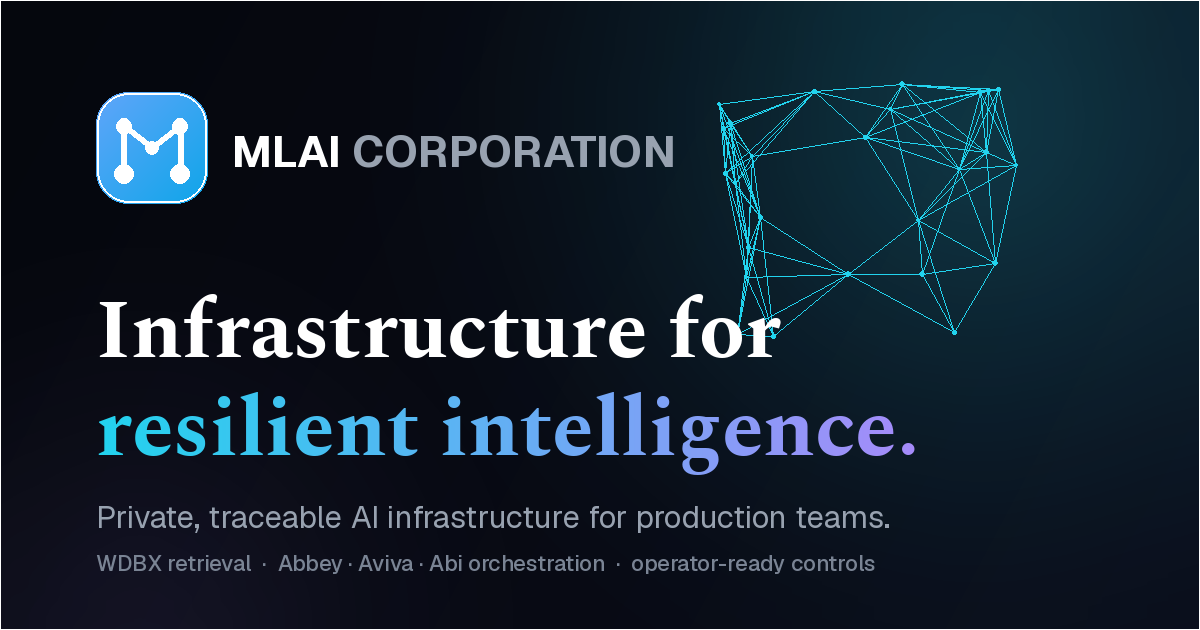
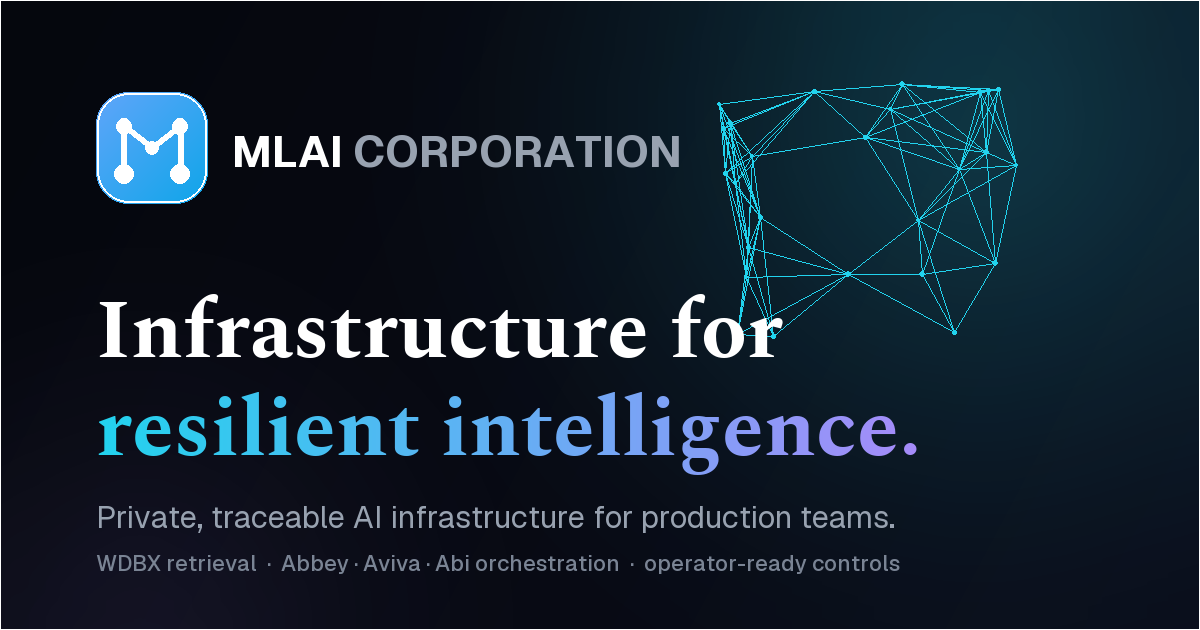
fix(claims): align WDBX copy with substrate
Published design and film surfaces mixed real HNSW and MVCC capabilities with stale parameter defaults, an unsupported sharding topology, and an install contract that does not exist. The sibling Rust substrate is the architectural authority; frozen Zig-era mirrors cannot establish current behavior.\n\nPin the corrected claims so the same attractive but unsupported copy cannot drift back in, and realign the canonical social-card SVG with the generated Lab-brand rasters.\n\nVerification before commit: focused claims and landing-page suites passed 15/15. The full local gate was then blocked by strict-null errors in concurrent, unstaged audit-store and consent work outside this commit.

diff --git a/src/design/docs/DocsContent.tsx b/src/design/docs/DocsContent.tsx
@@ -252,7 +252,7 @@ export const PAGES: Record<string, DocPage> = {
     title: "Quickstart",
     toc: [
       ["install", "Install"],
-      ["first-index", "Your first index"],
+      ["first-index", "Verify the index"],
       ["next", "Next steps"],
     ],
     body: () => (
@@ -266,20 +266,23 @@ export const PAGES: Record<string, DocPage> = {
           Telemetry is off until you enable it in Settings. Every memory write is SHA-256-chained and verified
           on read.
         </Callout>
-        <H2 id="install">Install</H2>
-        <P>WDBX ships as a single static binary (written in Zig). Pull it and verify the checksum:</P>
-        <CodeBlock
-          label="shell"
-          code={`curl -fsSL https://get.mlai.dev/wdbx | sh\nwdbx verify --self        # checks the signed release\nwdbx version              # → wdbx 2.4.0 · zig 0.13`}
-        />
-        <H2 id="first-index">Your first index</H2>
+        <H2 id="install">Build from source</H2>
         <P>
-          Create an HNSW index, upsert a few vectors, then query for nearest neighbors. The history is chained
-          automatically.
+          WDBX is a Rust workspace consumed by ABI and Abbey through sibling path dependencies. Clone the
+          public source and run its declared verification gate:
         </P>
         <CodeBlock
-          label="python"
-          code={`from wdbx import Client\n\ndb = Client(local=True)              # on-device\nidx = db.create_index("docs", dim=768, metric="cosine")\n\nidx.upsert([(id, vector, meta) for ...])\nhits = idx.query(q, k=10, ef=200)    # HNSW search\n\nassert db.verify_chain()             # SHA-256 integrity`}
+          label="shell"
+          code={`git clone https://github.com/donaldfilimon/wdbx.git\ncd wdbx\ncargo test --workspace`}
+        />
+        <H2 id="first-index">Verify the index</H2>
+        <P>
+          The real-store integration test rebuilds a layered HNSW graph from stored vectors, validates the
+          graph, and compares approximate search with the exact index.
+        </P>
+        <CodeBlock
+          label="shell"
+          code={`cargo test -p abi-wdbx --lib hnsw\ncargo test -p abi-wdbx --test real_store`}
         />
         <H2 id="next">Next steps</H2>
         <P>
@@ -300,16 +303,16 @@ export const PAGES: Record<string, DocPage> = {
     body: () => (
       <>
         <P>
-          WDBX is a purpose-built vector-database runtime — HNSW search, sharded storage, SHA-256-chained
-          history and lock-free MVCC concurrency. Memory you can verify.
+          WDBX is a purpose-built vector-database runtime — HNSW search, durable WAL-backed storage,
+          SHA-256-chained history and lock-free MVCC concurrency. Memory you can verify.
         </P>
         <H2 id="model">Storage model</H2>
         <P>
-          Vectors are sharded across nodes; each shard owns an HNSW graph plus a write-ahead log. Reads are
-          served from the graph; writes append to the log and link to the previous block.
+          Each store rebuilds its HNSW graph from a durable snapshot and records writes through a CRC-framed
+          write-ahead log. Cluster support provides replication and read repair; it is not production sharding.
         </P>
-        <Callout kind="info" title="Sharding">
-          Don't shard below ~10M vectors — coordination overhead outweighs parallelism. Re-evaluate at 50M.
+        <Callout kind="info" title="Replication">
+          Replication and read repair are substrate capabilities, not a claim of a hosted multi-node service.
         </Callout>
         <H2 id="integrity">Verifiable memory</H2>
         <P>
@@ -318,7 +321,7 @@ export const PAGES: Record<string, DocPage> = {
         </P>
         <CodeBlock
           label="shell"
-          code={`wdbx chain verify --index docs\n# 142,887 blocks · 0 mismatches · ok`}
+          code={`cargo test -p abi-wdbx --lib hash\ncargo test -p abi-wdbx --lib durable`}
         />
         <H2 id="concurrency">Concurrency</H2>
         <P>
@@ -346,7 +349,7 @@ export const PAGES: Record<string, DocPage> = {
         <ParamTable
           rows={[
             ["M", "16", "Edges per node. Higher = better recall, more memory."],
-            ["ef_construction", "200", "Candidate list size at build time. Higher = better graph, slower build."],
+            ["ef_construction", "40", "Candidate list size at build time. Higher = better graph, slower build."],
             ["metric", "cosine", "cosine for text embeddings; L2 for clustering."],
           ]}
         />
@@ -354,12 +357,12 @@ export const PAGES: Record<string, DocPage> = {
         <ParamTable
           rows={[
             ["k", "10", "Number of neighbors to return."],
-            ["ef", "200", "Search breadth. Higher = better recall, higher latency."],
+            ["ef", "32", "Search breadth. Higher = better recall, higher latency."],
           ]}
         />
         <H2 id="guidance">Guidance</H2>
         <Callout kind="warn" title="Aviva says">
-          Use HNSW. M=16, ef=200. Cosine for text, L2 for clustering. Done.
+          Use HNSW. M=16, ef=32. Cosine for text, L2 for clustering. Done.
         </Callout>
         <P>
           Numbers above are defaults, not benchmarks. Publish measured latency/recall only against a
@@ -394,7 +397,7 @@ export const PAGES: Record<string, DocPage> = {
         </Callout>
         <H2 id="aviva">Aviva · Unfiltered Expert</H2>
         <Callout kind="warn" title="Violet · vision">
-          Direct, dense, zero hedging. "Use HNSW. M=16, ef=200. Cosine for text, L2 for clustering. Done."
+          Direct, dense, zero hedging. "Use HNSW. M=16, ef=32. Cosine for text, L2 for clustering. Done."
         </Callout>
       </>
     ),

diff --git a/src/__tests__/claims.test.ts b/src/__tests__/claims.test.ts
@@ -1,0 +1,48 @@
+import { readFileSync } from "node:fs";
+import { resolve } from "node:path";
+import { describe, expect, it } from "vitest";
+
+const SOURCE_FILES = [
+  "src/design/docs/DocsContent.tsx",
+  "src/design/brand/BrandBoard.tsx",
+  "src/design/marketing/Personas.tsx",
+  "src/design/console/Chat.tsx",
+  "src/film/scenes/math.tsx",
+] as const;
+
+const sources = SOURCE_FILES.map((path) => ({
+  path,
+  text: readFileSync(resolve(__dirname, "../..", path), "utf8"),
+}));
+
+describe("public WDBX architecture claims", () => {
+  it("does not restore the stale HNSW 200 defaults", () => {
+    for (const source of sources) {
+      expect(source.text, source.path).not.toMatch(/ef(?:_construction)?\s*[=:]\s*["']?200\b/i);
+    }
+  });
+
+  it("does not advertise an install endpoint or release that does not exist", () => {
+    const docs = sources.find(({ path }) => path.endsWith("DocsContent.tsx"))?.text ?? "";
+    expect(docs).not.toContain("get.mlai.dev/wdbx");
+    expect(docs).not.toContain("wdbx 2.4.0");
+    expect(docs).not.toContain("zig 0.13");
+    expect(docs).not.toContain("from wdbx import Client");
+    expect(docs).not.toContain("wdbx chain verify");
+  });
+
+  it("does not present cluster replication as distributed sharding", () => {
+    const renderedClaims = sources.map(({ text }) => text).join("\n");
+    expect(renderedClaims).not.toMatch(/vectors are sharded across nodes/i);
+    expect(renderedClaims).not.toMatch(/sharded storage/i);
+    expect(renderedClaims).not.toMatch(/don't shard below/i);
+    expect(renderedClaims).not.toMatch(/fusing sharding/i);
+  });
+
+  it("documents the substrate defaults that the Rust source currently defines", () => {
+    const docs = sources.find(({ path }) => path.endsWith("DocsContent.tsx"))?.text ?? "";
+    expect(docs).toContain('["M", "16"');
+    expect(docs).toContain('["ef_construction", "40"');
+    expect(docs).toContain('["ef", "32"');
+  });
+});

diff --git a/src/film/scenes/math.tsx b/src/film/scenes/math.tsx
@@ -237,7 +237,7 @@ export const MATH: MathDef[] = [
     eqs: [{ tex: <span>cos θ = (<Tok c={AVC}>a</Tok>·<Tok c={AV}>b</Tok>) / (‖<Tok c={AVC}>a</Tok>‖ ‖<Tok c={AV}>b</Tok>‖)</span>, note: "Relevance is the angle between two embeddings." }],
     bullets: ["Vectors normalized to unit length", "Dot product over 768+ dimensions", "Zig @Vector SIMD — many lanes per cycle"] },
   { idx: "M2", label: "Index", badge: "partial", title: "HNSW search", motif: "graph",
-    eqs: [{ tex: <span>search ≈ O(<Tok c={AVC}>log N</Tok>) &nbsp; · &nbsp; M=16, ef=200</span>, note: "A hierarchical navigable small-world graph." }],
+    eqs: [{ tex: <span>search ≈ O(<Tok c={AVC}>log N</Tok>) &nbsp; · &nbsp; M=16, ef=32</span>, note: "A hierarchical navigable small-world graph." }],
     bullets: ["Coarse top layers, dense bottom layer", "Greedy descent toward the query", "Results returned in non-increasing score"] },
   { idx: "M3", label: "Hybrid rank", badge: "partial", title: "Beyond similarity", motif: "curve",
     eqs: [{ tex: <span>score = <Tok c={AVC}>sem</Tok> × <Tok c="#60a5fa">temp</Tok> × <Tok c={C.green}>causal</Tok> × <Tok c={AV}>persona</Tok></span> },

diff --git a/src/design/brand/BrandBoard.tsx b/src/design/brand/BrandBoard.tsx
@@ -350,7 +350,7 @@ const VOICE: readonly VoiceItem[] = [
     role: "Unfiltered Expert",
     c: "violet",
     desc: "Direct, concise, zero hedging or preamble. Optimized for technical density and speed.",
-    sample: "“Use HNSW. M=16, ef=200. Cosine for text, L2 for clustering. Done.”",
+    sample: "“Use HNSW. M=16, ef=32. Cosine for text, L2 for clustering. Done.”",
   },
   {
     icon: IFlow,
@@ -412,7 +412,7 @@ const TYPE: readonly TypeSpec[] = [
     spec: "System sans · 15–16px · slate-300",
     el: (
       <span className="text-base text-slate-300" style={{ fontFamily: "system-ui" }}>
-        A purpose-built substrate fusing sharding, integrity, and concurrency.
+        A purpose-built substrate fusing durable retrieval, integrity, and concurrency.
       </span>
     ),
   },

diff --git a/src/design/console/Chat.tsx b/src/design/console/Chat.tsx
@@ -34,8 +34,8 @@ const REPLIES: Record<PersonaName, string[]> = {
     "Here's the gentle version, then the precise one — tell me where to stop.",
   ],
   Aviva: [
-    "Use HNSW. M=16, ef=200. Cosine for text, L2 for clustering. Done.",
-    "Don't shard below 10M vectors — overhead outweighs parallelism. Re-evaluate at 50M.",
+    "Use HNSW. M=16, ef=32. Cosine for text, L2 for clustering. Done.",
+    "Replicate for resilience when the topology requires it. Don't market replication as distributed sharding.",
     "Chain the writes with SHA-256, verify on read, reject on mismatch. No exceptions.",
   ],
 };

diff --git a/src/design/marketing/Personas.tsx b/src/design/marketing/Personas.tsx
@@ -34,7 +34,7 @@ const MINDS: readonly Mind[] = [
     Icon: IZap,
     line: "research · vision",
     traits: ["Direct", "Maximum density", "Zero hedging"],
-    quote: "Use HNSW. M=16, ef=200. Cosine for text, L2 for clustering. Done.",
+    quote: "Use HNSW. M=16, ef=32. Cosine for text, L2 for clustering. Done.",
   },
   {
     key: "Abi",

diff --git a/CLAUDE.md b/CLAUDE.md
@@ -71,8 +71,8 @@ Site copy is a single source of truth at [src/data/index.ts](src/data/index.ts),
 - **The detail pages share one shell.** [BlogPost.tsx](src/views/BlogPost.tsx) (`/blog/:slug`), [ResearchPaper.tsx](src/views/ResearchPaper.tsx) (`/research/:slug`), and the founder profile all render through [src/components/article.tsx](src/components/article.tsx): `ArticleLayout` (full reading shell), `ArticleSections` (the heading/paragraph/list/math body renderer), and `ArticleNotFound` (in-page 404). Tag→class colors live in [src/lib/tag-colors.ts](src/lib/tag-colors.ts) rather than inline — though its only consumer now is `ResearchPaper.tsx`: `Research.tsx`/`Blog.tsx` moved to `site/PublicationIndex` (uniform chip styling, no per-tag map) and `BlogPost.tsx` renders one fixed `text-cyan-400`. The no-inline-map invariant holds; the file's reach is narrower than the name suggests.
 - **Per-route SEO is data-derived.** [src/lib/route-meta.ts](src/lib/route-meta.ts) maps static paths to `<title>`/description and derives metadata for `/blog/:slug`, `/research/:slug`, `/team/:slug`, and `/products/:slug` from the matching `content` entry. Unknown paths and invalid slugs resolve to a `noindex` 404 meta (not the default org meta). New indexable routes need an entry here.
 - **Content claims are constrained.** (Sourcing note, 2026-08-09: this rule has long been cited to the sibling `abi` repo's `docs/contracts/external-claims-audit.md` — **that file does not exist in `abi` @ `ac69027`**. The rule stands on its own and is restated in full here and in `docs/master-reference.md`; treat *this* file as the authority and don't go hunting for that contract.) External collateral (this site included) must NOT cite specific QPS/latency/accuracy/energy/model-benchmark numbers, distributed sharding, AES/RBAC, regulatory certifications, or non-existent stacks unless a repo artifact proves them. Frame metrics as **targets/goals** (as `src/data/categories/stats.ts` already does) and ground new copy in verifiable architecture (the real `abi` CLI, MCP tools, WDBX stores, Abbey/Aviva/Abi persona routing).
-- **[docs/master-reference.md](docs/master-reference.md) is the reconciled cross-project fact sheet** (company, three products, persona system) and carries the provenance discipline the claims rule depends on: every metric is tagged **● measured** (reproduced on MLAI hardware) / **○ target** (an engineering goal) / **◆ reported** (cited or internal-eval), and the three are **never conflated**. It also pins the standing Apple rule — only "Built on Apple's public frameworks (Metal, Accelerate, Core ML)" framing; no partnership, endorsement, or employer claim. Carry those tags forward when moving a figure from that doc into site copy. **But master-reference is not uniformly trustworthy: its tagged *tables* are, and its untagged prose *bullets* are not.** The §4 "Core features" list is working notes — it asserts HNSW with `M=16, efConstruction=200`, "95% recall @ 8.2 ms" (which **contradicts the tagged table directly above it**: Recall@10 98.2% ● measured, p50 2.3 ms ● measured), and "AES-256 + RBAC" (forbidden outright). **But do NOT conclude from the mirrored docs that a claim is fabricated — that inference was made once and it was wrong.** The nine docs in [public/docs/wdbx/](public/docs/wdbx/) never mention HNSW or any index structure, and on 2026-08-24 that silence was read as proof the HNSW claims were invented. Checking the actual substrate refuted it: `~/dev/active/wdbx/crates/abi-wdbx/src/hnsw.rs` is a real layered HNSW graph (`HnswIndex::search`, `validate_graph`, tests that rebuild real vectors), `mvcc.rs` is real, and the lock-free v2 writer path is real. **The mirrored docs are stale Zig-era artifacts, not a current architecture register** — their silence is absence of documentation, not absence of the feature. So the precedence rule is narrower than it used to read here: **a tagged row outranks an untagged bullet always, and for anything architectural the SIBLING RUST REPO outranks both.** Verify against `~/dev/active/wdbx/crates/` before deleting an architectural claim as unfounded.
-  - What the substrate actually contradicts, measured 2026-08-24: the site publishes `ef_construction = 200` and `ef = 200`, but `hnsw.rs:15,17` define `EF_CONSTRUCTION = 40` and `EF_SEARCH = 32` (`M = 16` at `:13` IS correct). And `cluster_rpc.rs:5` states in its own words "This is not TLS, production multi-host Raft, or **sharding**" — so any "vectors are sharded across nodes" copy is contradicted by the source it describes, which is why distributed sharding stays on the forbidden list.
+- **[docs/master-reference.md](docs/master-reference.md) is the reconciled cross-project fact sheet** (company, three products, persona system) and carries the provenance discipline the claims rule depends on: every metric is tagged **● measured** (reproduced on MLAI hardware) / **○ target** (an engineering goal) / **◆ reported** (cited or internal-eval), and the three are **never conflated**. It also pins the standing Apple rule — only "Built on Apple's public frameworks (Metal, Accelerate, Core ML)" framing; no partnership, endorsement, or employer claim. Carry those tags forward when moving a figure from that doc into site copy. **But master-reference is not uniformly trustworthy: its tagged *tables* are, and its untagged prose *bullets* are not.** The §4 "Core features" list is working notes — it historically asserted HNSW with `M=16, efConstruction=200`, "95% recall @ 8.2 ms" (which **contradicts the tagged table directly above it**: Recall@10 98.2% ● measured, p50 2.3 ms ● measured), and "AES-256 + RBAC" (forbidden outright). **But do NOT conclude from the mirrored docs that a claim is fabricated — that inference was made once and it was wrong.** The nine docs in [public/docs/wdbx/](public/docs/wdbx/) never mention HNSW or any index structure, and on 2026-08-24 that silence was read as proof the HNSW claims were invented. Checking the actual substrate refuted it: `~/dev/active/wdbx/crates/abi-wdbx/src/hnsw.rs` is a real layered HNSW graph (`HnswIndex::search`, `validate_graph`, tests that rebuild real vectors), `mvcc.rs` is real, and the lock-free v2 writer path is real. **The mirrored docs are stale Zig-era artifacts, not a current architecture register** — their silence is absence of documentation, not absence of the feature. So the precedence rule is narrower than it used to read here: **a tagged row outranks an untagged bullet always, and for anything architectural the SIBLING RUST REPO outranks both.** Verify against `~/dev/active/wdbx/crates/` before deleting an architectural claim as unfounded.
+  - What the substrate actually defines, measured 2026-08-24: `hnsw.rs:13,15,17` set `M = 16`, `EF_CONSTRUCTION = 40`, and `EF_SEARCH = 32`. Stale public `200` values were corrected that day and `claims.test.ts` prevents their return. And `cluster_rpc.rs:5` states in its own words "This is not TLS, production multi-host Raft, or **sharding**" — so any "vectors are sharded across nodes" copy is contradicted by the source it describes, which is why distributed sharding stays on the forbidden list.
   - The AES-256 + RBAC bullet remains forbidden regardless; nothing in the substrate substantiates it. Tone/wording rules for public copy live in [docs/voice-guidelines.md](docs/voice-guidelines.md).
 
 ### Styling
@@ -80,7 +80,7 @@ Site copy is a single source of truth at [src/data/index.ts](src/data/index.ts),
 
 TailwindCSS v4 via PostCSS (no `tailwind.config.js`; tokens/utilities live in [src/index.css](src/index.css)). Custom design system: typography scale `--text-h0`→`--text-h5` (Major-Third), and utility classes `.container-custom` (max-w-7xl page width), `.container-prose` (~68ch reading measure), `.section-y` (responsive vertical rhythm `py-20 md:py-24 lg:py-28`), `.section-title`, `.glass-card`, `.label-chip`. Dark theme is set via `:root` tokens; the `.dark` class only sets `color-scheme: dark` so it won't override the MLAI palette. Animation via Framer Motion; icons from Lucide React; primitives from `@base-ui/react` + shadcn-style wrappers in `src/components/ui/`.
 
-- **Brand = "Lab" / Cyan + Serif.** **Cyan primary** + **blue/sky secondary** on a near-black ink canvas (`#05070d`), with **violet/emerald/amber** as fixed persona colors and a cyan→blue→violet signature gradient (`--grad`, used by `.grad-text` headlines). The display face is a **serif (Spectral)** — `--font-display` — set on raw `h1–h3` site-wide; that serif-on-dark-technical pairing is the deliberate signature. (Palette history: blue/cyan → emerald/teal → indigo/sky "Signal" → **cyan "Lab"** (current). The indigo "Signal" identity is retired — do not reintroduce indigo/fuchsia for brand color. **One survivor is still shipped:** `public/og-image.svg` uses indigo-300 `#A5B4FC` for the headline gradient tail and chip fill, and still sets `font-family="Outfit, …"`, a face used nowhere else. Its own PNG generator has already moved on to `#a78bfa`, so the canonical SVG and the served PNG disagree — fix the SVG and `generate-og.py` together or they will keep diverging. No `indigo-`/`fuchsia-` *utility class* survives anywhere in `src/`, `app/`, or `site/`.) Color is driven by OKLCH semantic tokens in `:root` (`--primary: oklch(0.79 0.13 207)`, `--accent`, `--ring`, `--background`, …) re-exposed to Tailwind via `@theme inline` (shadcn Tailwind-v4 structure), **plus** a legacy `@theme` hex block (`--color-primary: #22d3ee`, `--color-bg: #05070d`, …) driving `bg-bg`/`text-text-dim`/`bg-primary`; **update both on a re-skin.** **Re-value tokens to re-skin; don't restructure the plumbing.** `--primary-foreground` is **dark** (the cyan primary is light, L≈0.79) to keep ≥4.5:1 WCAG AA.
+- **Brand = "Lab" / Cyan + Serif.** **Cyan primary** + **blue/sky secondary** on a near-black ink canvas (`#05070d`), with **violet/emerald/amber** as fixed persona colors and a cyan→blue→violet signature gradient (`--grad`, used by `.grad-text` headlines). The display face is a **serif (Spectral)** — `--font-display` — set on raw `h1–h3` site-wide; that serif-on-dark-technical pairing is the deliberate signature. (Palette history: blue/cyan → emerald/teal → indigo/sky "Signal" → **cyan "Lab"** (current). The indigo "Signal" identity is retired — do not reintroduce indigo/fuchsia for brand color. `public/og-image.svg` was brought back into alignment with the Spectral + cyan→violet PNG generator on 2026-08-24; keep both sources aligned. No `indigo-`/`fuchsia-` *utility class* survives anywhere in `src/`, `app/`, or `site/`.) Color is driven by OKLCH semantic tokens in `:root` (`--primary: oklch(0.79 0.13 207)`, `--accent`, `--ring`, `--background`, …) re-exposed to Tailwind via `@theme inline` (shadcn Tailwind-v4 structure), **plus** a legacy `@theme` hex block (`--color-primary: #22d3ee`, `--color-bg: #05070d`, …) driving `bg-bg`/`text-text-dim`/`bg-primary`; **update both on a re-skin.** **Re-value tokens to re-skin; don't restructure the plumbing.** `--primary-foreground` is **dark** (the cyan primary is light, L≈0.79) to keep ≥4.5:1 WCAG AA.
 - **Components use Tailwind's `cyan`/`sky`/`violet`/`emerald` ramps.** Migrate a re-skin with `sed 's/<old>-/<new>-/g'` over `src/` (BSD sed has no `\b` — use plain substrings; the indigo→cyan rebrand ran `indigo-`→`cyan-` and `fuchsia-`→`violet-` over 40 files). Hardcoded brand hex/rgb survives the utility-class sed in many places (some carry **uppercase** hex), so update them by hand. **The list that used to live here was incomplete and named one location that no longer exists — re-enumerate rather than trusting it:** `grep -rniE '#[0-9a-f]{6}|rgba?\(' src app public site scripts`. Known surfaces as of 2026-08-24: `public/neural.js` `DEFAULTS` (persona colors); the hero glow rgba in `Hero.tsx`; **`scripts/generate-og.py` lines 39-47 — a full brand-token block that REGENERATES every shipped raster asset, so hand-editing the SVGs without it means the next `bun run og` reverts them**; `src/lib/og.tsx` (the Satori renderer behind all four per-slug OG cards); `src/components/Viewport3D.tsx` (still on the retired emerald/teal palette, and still mounted — `Technology.tsx` → `Home.tsx`); `app/global-error.tsx` (inline by necessity, global CSS may not have loaded); `src/components/demos/CosineSimDemo.tsx`; `src/film/tokens.ts` + the scene files (a parallel token registry); ~25 files under `src/design/` including `board/tokens.ts`, `board/depth.tsx`, and `mlai-mark.svg` (an SVG **outside** `public/`, which a `public/*.svg` glob misses); `site/index.html` + `site/favicon.svg`; the `public/*.svg` assets; `app/layout.tsx` (theme-color/mask-icon); and `manifest.webmanifest`. The persona accent dots differ by file: `PersonaLegend.tsx` uses per-dot `shadow-[…rgba…]`, but `Docs.tsx` stores plain hex string fields. **`WDBX_COLOR` and `BarChart.tsx` are gone** — `src/components/wdbx-benchmark/` is now just `charts.ts` + `Dashboard.tsx`, neither containing any hex. (`HeroScene.tsx` is a separate, currently-unmounted scene; not on the hero path.)
 - **Glass depth** is unified: both `.glass-card` (utility) and the shadcn `Card variant="glass"` ([src/components/ui/card.tsx](src/components/ui/card.tsx)) use a 1px inset top-edge highlight + cyan hover ring + lift. Keep them in sync if you tune one.
 - **Logo/wordmark is a reusable component** ([src/components/Logo.tsx](src/components/Logo.tsx)) — node-graph mark on a cyan→sky gradient, used by Navbar + Footer + Login. Don't re-inline logo markup.

diff --git a/AGENTS.md b/AGENTS.md
@@ -41,7 +41,7 @@
 
 - Blog and research bodies are structured data, not JSX. Slugs, bodies, metadata, feeds, JSON-LD, OG images, sitemap entries, and `llms.txt` all derive from the content layer; `content.test.ts` enforces slug/body contracts.
 - Public copy must not invent or overstate benchmark, security, compliance, distributed-sharding, scaling, partnership, or certification claims. Unverified metrics are targets. Preserve provenance from `docs/master-reference.md`: measured, target, and reported are not interchangeable.
-- For WDBX architecture the **sibling Rust substrate `~/dev/active/wdbx/crates/` outranks everything here**; a tagged table outranks an untagged bullet always. The mirrored docs in `public/docs/wdbx/` are a frozen Zig-era snapshot with no live upstream, so their silence is missing documentation, not a missing feature — do not cite it as proof a claim is invented. That inference was drawn once, on 2026-08-24, and the substrate refuted it: `crates/abi-wdbx/src/hnsw.rs` is a real layered HNSW graph and `mvcc.rs` is real. What the substrate does contradict: `EF_CONSTRUCTION = 40` and `EF_SEARCH = 32` (not the `200` the site publishes; `M = 16` is correct), and `cluster_rpc.rs` states it is "not ... sharding", so distributed-sharding copy stays forbidden. Apple wording is limited to "built on Apple's public frameworks", never partnership or endorsement.
+- For WDBX architecture the **sibling Rust substrate `~/dev/active/wdbx/crates/` outranks everything here**; a tagged table outranks an untagged bullet always. The mirrored docs in `public/docs/wdbx/` are a frozen Zig-era snapshot with no live upstream, so their silence is missing documentation, not a missing feature — do not cite it as proof a claim is invented. That inference was drawn once, on 2026-08-24, and the substrate refuted it: `crates/abi-wdbx/src/hnsw.rs` is a real layered HNSW graph and `mvcc.rs` is real. The real defaults are `M = 16`, `EF_CONSTRUCTION = 40`, and `EF_SEARCH = 32`; stale public `200` values were corrected on 2026-08-24 and `claims.test.ts` prevents their return. `cluster_rpc.rs` states it is "not ... sharding", so distributed-sharding copy stays forbidden. Apple wording is limited to "built on Apple's public frameworks", never partnership or endorsement.
 - `/benchmarks` may not contain competitor comparisons or untagged figures. New numbers require a reproducible repository harness and published methodology; otherwise omit them.
 - Telemetry persists only allowlisted event + pathname + timestamp; both fields pass through the allowlists in `src/lib/server/telemetry-path.ts`. Never add free-text or identifying fields.
 - Multi-team bylines join on a middle dot; split them with `bylineNames` from `src/lib/byline.ts`, never a local comma-split (that bug shipped twice).

diff --git a/GEMINI.md b/GEMINI.md
@@ -56,7 +56,7 @@ Run `bun run lint`, `bun run test`, and `bun run build` before production-impact
 ## Content Claims Constraint
 External copy must not cite unsupported QPS, latency, accuracy, energy, benchmark, security, compliance, distributed-sharding, or scaling claims. Frame unverified metrics as targets and ground copy in implemented architecture.
 
-For anything architectural, the sibling Rust substrate `~/dev/active/wdbx/crates/` is the authority — the mirrored `public/docs/wdbx/` snapshot is frozen Zig-era material with no live upstream, so its silence on a feature is missing documentation, not evidence the claim was invented (that inference was made once and the substrate refuted it: `hnsw.rs` and `mvcc.rs` are real). It does contradict the published `ef_construction`/`ef` of `200` — the real constants are `40` and `32`, though `M = 16` is right — and `cluster_rpc.rs` disclaims sharding outright, so distributed-sharding copy stays forbidden.
+For anything architectural, the sibling Rust substrate `~/dev/active/wdbx/crates/` is the authority — the mirrored `public/docs/wdbx/` snapshot is frozen Zig-era material with no live upstream, so its silence on a feature is missing documentation, not evidence the claim was invented (that inference was made once and the substrate refuted it: `hnsw.rs` and `mvcc.rs` are real). The real defaults are `M = 16`, `EF_CONSTRUCTION = 40`, and `EF_SEARCH = 32`; stale public `200` values were corrected on 2026-08-24 and pinned by `claims.test.ts`. `cluster_rpc.rs` disclaims sharding outright, so distributed-sharding copy stays forbidden.
 
 `docs/master-reference.md` is the reconciled cross-project fact sheet and carries the provenance discipline this rule depends on: every metric is tagged **● measured** / **○ target** / **◆ reported**, and the three are never conflated. It also pins the standing Apple rule — only "Built on Apple's public frameworks (Metal, Accelerate, Core ML)" framing, no partnership or endorsement claim. Carry the tags forward when moving a figure into site copy. Tone rules live in `docs/voice-guidelines.md`.
 
